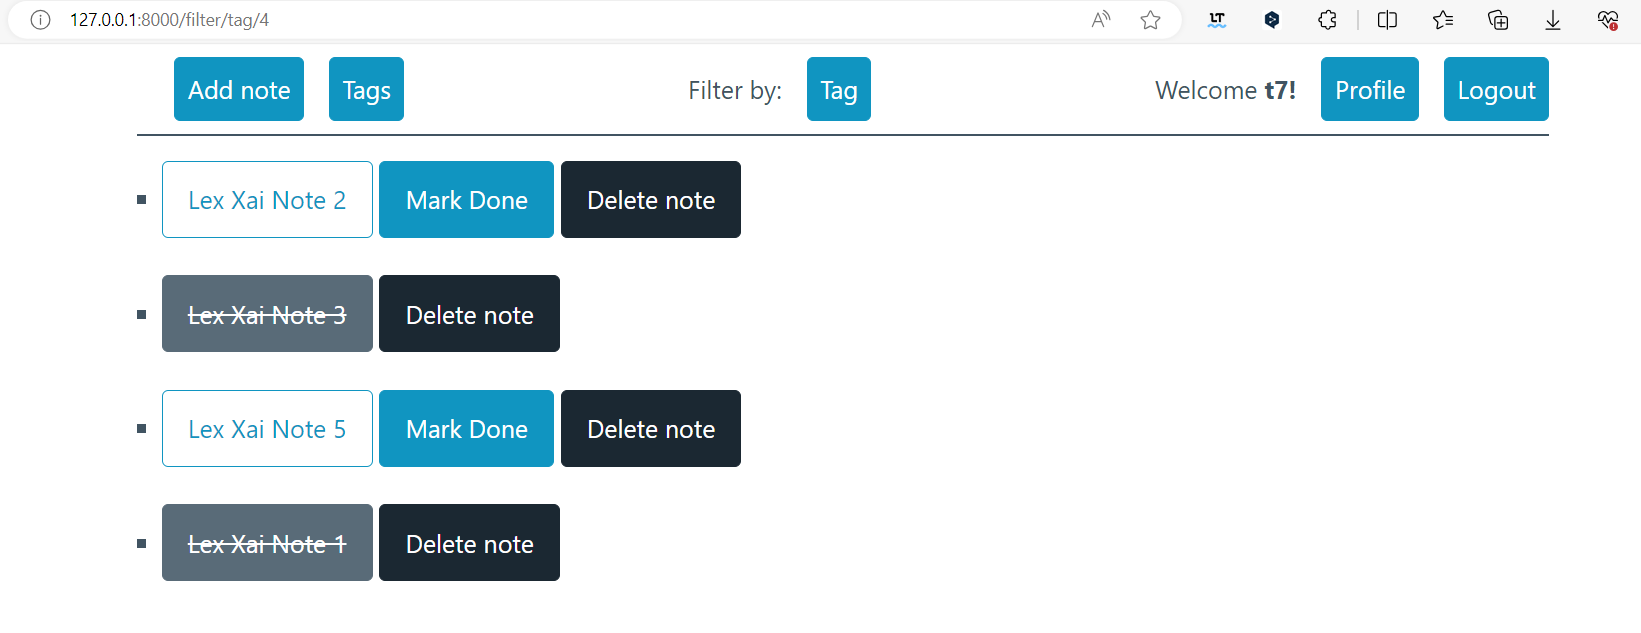
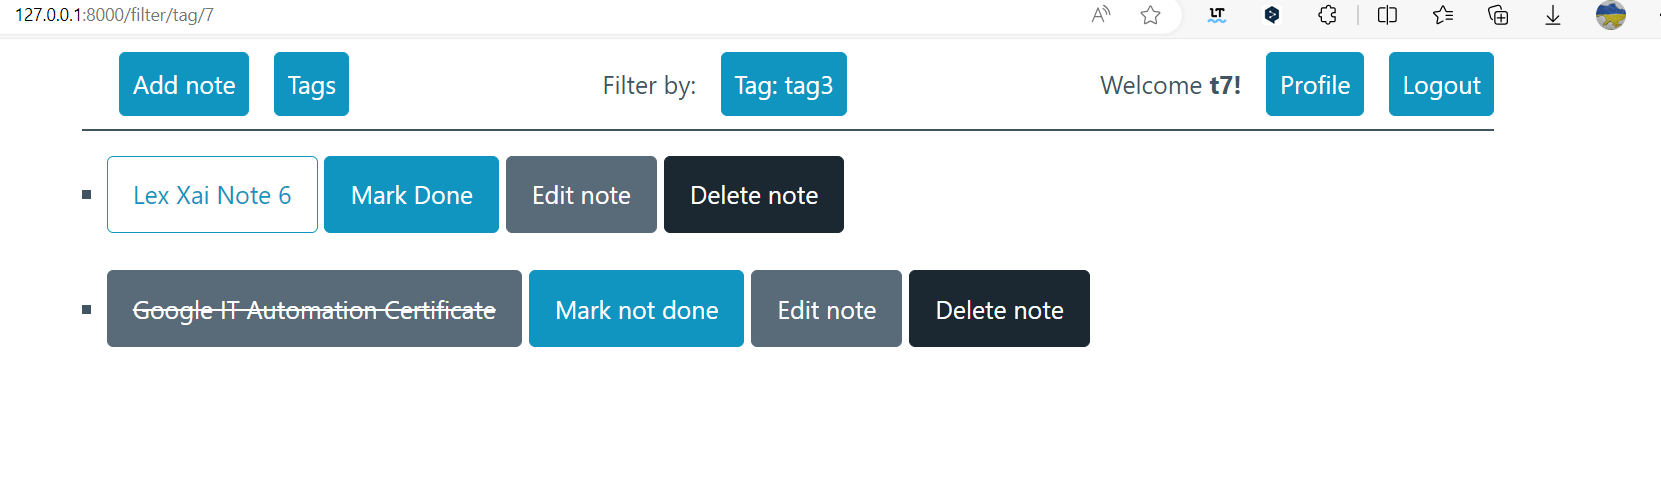
addon 3 edit note

diff --git a/notes/noteapp/templates/noteapp/index.html b/notes/noteapp/templates/noteapp/index.html
@@ -19,7 +19,7 @@
             <ul>
                 <li>Filter by:</li>
                 {% if filter == "tag" %}
-                    <li><a href="{% url 'noteapp:main'  %}" role="button">Tag</a></li>
+                    <li><a href="{% url 'noteapp:main'  %}" role="button">Tag: {{ tag }}</a></li>
                 {% else %}
                     <li><a href="{% url 'noteapp:filter' 'done' %}" role="button"
                     {% if filter == "done" %}
@@ -64,12 +64,13 @@
             <li>
                 {% if not note.done %}
                 <a href="{% url 'noteapp:detail' note.id %}" role="button" class="outline"> {{ note.name }} </a>
-                <a href="{% url 'noteapp:set_done' note.id %}" role="button"> Mark Done </a>
-                <a href="{% url 'noteapp:delete' note.id %}" role="button" class="contrast"> Delete note </a>
+                <a href="{% url 'noteapp:set_done' note.id %}" role="button">Mark Done</a>
                 {% else %}
                 <a href="{% url 'noteapp:detail' note.id %}" role="button" class="secondary"><s>{{ note.name }}</s></a>
-                <a href="{% url 'noteapp:delete' note.id %}" role="button" class="contrast"> Delete note </a>
+                <a href="{% url 'noteapp:set_notdone' note.id %}" role="button">Mark not done</a>
                 {% endif %}
+                <a href="{% url 'noteapp:note_edit' note.id %}" role="button" class="secondary"> Edit note </a>
+                <a href="{% url 'noteapp:delete' note.id %}" role="button" class="contrast"> Delete note </a>
             </li>
         </ul>
         {% endfor %}

diff --git a/notes/noteapp/templates/noteapp/note.html b/notes/noteapp/templates/noteapp/note.html
@@ -2,7 +2,7 @@
 
 {% block content %}
 
-<form method="POST" action="{% url 'noteapp:note' %}">
+<form method="POST">
     {% csrf_token %}
     <div style="padding: 10px">
         <label> Note name:
@@ -16,11 +16,14 @@
         </label>
         <span>{{ form.errors.description }}</span>
     </div>
+
+     {{ form.tags }}
     <div style="padding: 10px">
         <label> Select tags:
             <select name="tags" multiple="multiple" required>
                 {% for tag in tags %}
-                <option value="{{tag.name}}">{{tag.name}}</option>
+                    <option value="{{tag.name}}" {% if tag in note_tags %} selected {% endif %} 
+                    >{{tag.name}}</option>
                 {% endfor %}
             </select>
         </label>

diff --git a/notes/noteapp/views.py b/notes/noteapp/views.py
@@ -15,7 +15,7 @@ def main(request, state: str = "", tag_id: int = 0):
     if flter == "done":
         print("main - onlydone")
         notes = (
-            Note.objects.filter(done=True, user=request.user).all()
+            Note.objects.filter(done=True, user=request.user).order_by("created").all()
             if request.user.is_authenticated
             else []
         )
@@ -35,19 +35,27 @@ def main(request, state: str = "", tag_id: int = 0):
         )
     else:
         notes = (
-            Note.objects.filter(user=request.user).all()
+            Note.objects.filter(user=request.user).order_by("created").all()
             if request.user.is_authenticated
             else []
         )
+    tag_name = ""
     if tag_id:
         flter = "tag"
-    context = {"notes": notes, "filter": flter}
+        tag_name = get_object_or_404(Tag, pk=tag_id).name
+
+    context = {"notes": notes, "filter": flter, "tag": tag_name}
     return render(request, "noteapp/index.html", context=context)
 
 
 @login_required
 def set_done(request, note_id):
     Note.objects.filter(pk=note_id, user=request.user).update(done=True)
+    return redirect(to="noteapp:main")
+
+@login_required
+def set_notdone(request, note_id):
+    Note.objects.filter(pk=note_id, user=request.user).update(done=False)
     return redirect(to="noteapp:main")
 
 
@@ -105,7 +113,7 @@ def tag_delete(request, tag_id):
 
 
 @login_required
-def note(request):
+def note(request, note_id: int = 0):
     tags = Tag.objects.filter(user=request.user).all()
 
     if request.method == "POST":
@@ -143,3 +151,33 @@ def tags(request):
     )
 
     return render(request, "noteapp/tags.html", {"tags": tags})
+
+
+@login_required
+def note_edit(request, note_id: int = 0):
+    tags = Tag.objects.filter(user=request.user).all()
+    note = get_object_or_404(Note, pk=note_id, user=request.user)
+    if request.method == "GET":
+        note_tags = tags.filter(note=note_id).all()
+        print("note_edit", note_tags)
+        form = NoteForm(instance=note)
+        context = {"tags": tags, "note_tags": note_tags, "form": form}
+        return render(request, "noteapp/note.html", context)
+    elif request.method == "POST":
+        form = NoteForm(request.POST, instance=note)
+        if form.is_valid():
+            new_note = form.save(commit=False)
+            new_note.user = request.user
+            new_note.save()
+
+            choice_tags = Tag.objects.filter(
+                name__in=request.POST.getlist("tags"), user=request.user
+            )
+            for tag in choice_tags.iterator():
+                new_note.tags.add(tag)
+
+            return redirect(to="noteapp:main")
+        else:
+            return render(request, "noteapp/note.html", {"tags": tags, "form": form})
+
+    return render(request, "noteapp/note.html", {"tags": tags, "form": NoteForm()})

diff --git a/notes/noteapp/urls.py b/notes/noteapp/urls.py
@@ -11,7 +11,9 @@ urlpatterns = [
     path('tag/edit/<int:tag_id>', views.tag_edit, name='tag_edit'),
     path('tag/delete/<int:tag_id>', views.tag_delete, name='tag_delete'),
     path('detail/<int:note_id>', views.detail, name='detail'),
+    path('edit/<int:note_id>', views.note_edit, name='note_edit'),
     path('done/<int:note_id>', views.set_done, name='set_done'),
+    path('notdone/<int:note_id>', views.set_notdone, name='set_notdone'),
     path('delete/<int:note_id>', views.delete_note, name='delete'),
     path('filter/<str:state>', views.main, name='filter'),
     path('filter/tag/<int:tag_id>', views.main, name='filter_tag'),  

diff --git a/README.md b/README.md
@@ -122,3 +122,5 @@ scipts/docker_build_docker-compose.cmd
 ![addon_3_edit](doc/addon_3_edit.png)
 
 ![addon_3_filter_tag](doc/addon_3_filter_tag.png)
+
+![addon_3_edit_note_tag](doc/addon_3_edit_note_tag.png)
